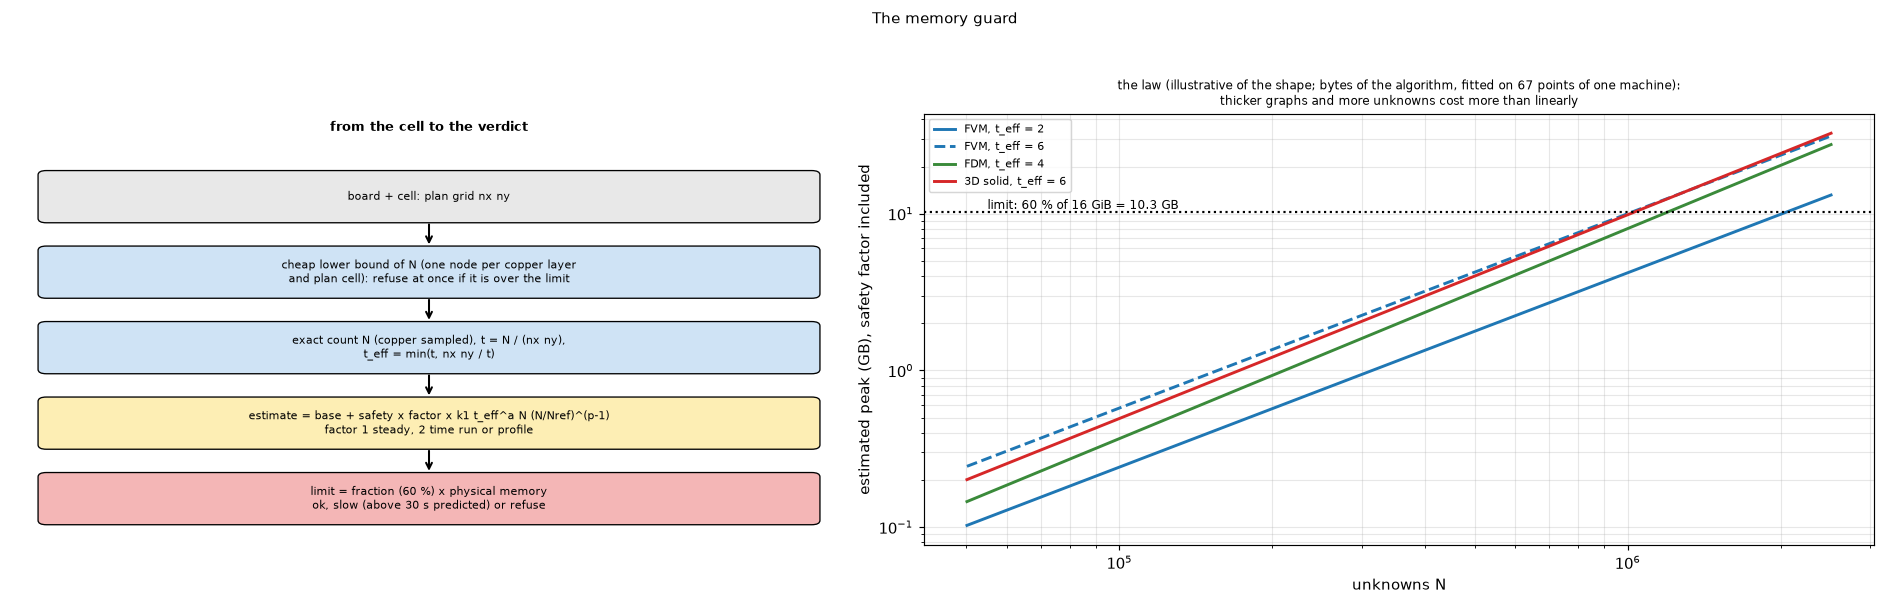
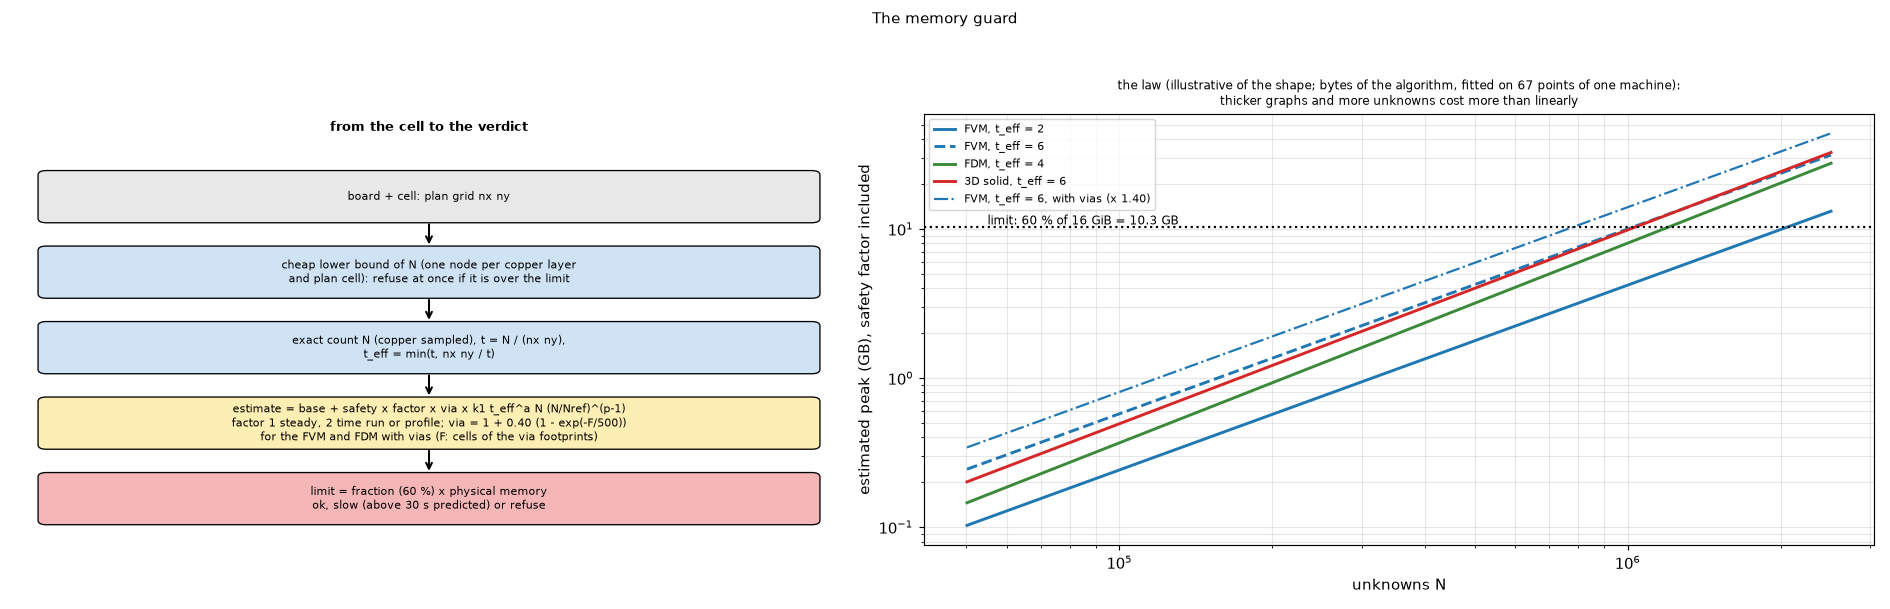
Document the via term of the memory law and the solver proposal
Theory 2.7, models 4c, versions (implemented and Planned), CHANGELOG,
the Decisions Log, the memory-guard README 14.12 with the measured
table, and the law figure with the via curve.

Claude-Session: https://claude.ai/code/session_01XgeLDd5tWg6CEJL9TQpCpU

Changed region(s): [[0.4683, 0.2184, 0.9677, 0.8424], [0.1249, 0.6552, 0.3434, 0.7488], [0.4683, 0.5928, 0.4995, 0.624]]

diff --git a/research/theory/scripts/make_diagrams.py b/research/theory/scripts/make_diagrams.py
@@ -1291,7 +1291,7 @@ def memory_guard(path):
     steps = (("board + cell: plan grid nx ny", "#e8e8e8"),
              ("cheap lower bound of N (one node per copper layer\nand plan cell): refuse at once if it is over the limit", "#cfe3f5"),
              ("exact count N (copper sampled), t = N / (nx ny),\nt_eff = min(t, nx ny / t)", "#cfe3f5"),
-             ("estimate = base + safety x factor x k1 t_eff^a N (N/Nref)^(p-1)\nfactor 1 steady, 2 time run or profile", "#fdeeb4"),
+             ("estimate = base + safety x factor x via x k1 t_eff^a N (N/Nref)^(p-1)\nfactor 1 steady, 2 time run or profile; via = 1 + 0.40 (1 - exp(-F/500))\nfor the FVM and FDM with vias (F: cells of the via footprints)", "#fdeeb4"),
              ("limit = fraction (60 %) x physical memory\nok, slow (above 30 s predicted) or refuse", "#f4b6b6"))
     for i, (txt, col) in enumerate(steps):
         y = 7.5 - i * 1.75
@@ -1305,6 +1305,9 @@ def memory_guard(path):
     for (name, (k1, p, e, s)), t, col, ls in ((("FVM", law["FVM"]), 2, dk.BLUE, "-"), (("FVM", law["FVM"]), 6, dk.BLUE, "--"),
                                               (("FDM", law["FDM"]), 4, "#3a8a3a", "-"), (("3D solid", law["3D solid"]), 6, dk.HEAT, "-")):
         a.plot(n, s * k1 * t ** e * n * (n / 5e5) ** (p - 1.0) / 1e9, color=col, ls=ls, lw=2, label=f"{name}, t_eff = {t}")
+    # The via term of the FVM and FDM saturates at 1 + VIA_GAIN = 1.40 (memory.VIA_GAIN): the board with thousands of via footprint cells
+    k1, p, e, sf = law["FVM"]
+    a.plot(n, 1.40 * sf * k1 * 6 ** e * n * (n / 5e5) ** (p - 1.0) / 1e9, color=dk.BLUE, ls="-.", lw=1.5, label="FVM, t_eff = 6, with vias (x 1.40)")
     lim = 0.6 * 16 * 2 ** 30 / 1e9
     a.axhline(lim, color="k", ls=":", lw=1.5)
     a.text(5.5e4, lim * 1.04, f"limit: 60 % of 16 GiB = {lim:.1f} GB", fontsize=8)

diff --git a/docs/versions.md b/docs/versions.md
@@ -17,7 +17,7 @@ What was implemented in every version (with the module where it lives and how it
 
 * **Imported copper** (`feature/imported-copper`; Auto is capped at 1 mm for imported copper, the coarse-cell warning quotes the measured numbers, `docs/validation.md` 27.3; `pcbthermal/copper.py`; theory `theory.md` 1.7; models `models.md` 19.1; validation `validation.md` 27; evidence `research/gerber-real-boards` 4.1, 10 and the study `scripts/study_program_cells.py`; tests `tests/test_imported_copper.py`). The coverage masks of an import (`Problem.imported`, one byte per pixel and layer, kept as packed text in the import record of project format 2; `model.ImportedCopper` gains `mapping`) become the copper of the board: an imported layer REPLACES the zones of that layer in every model, and the zones drawn there are ignored and warned. Three mappings (`ImportedCopper.mapping`): **faces** (default; `copper.face_conductances`, transmissibility upscaling: one local conduction problem on the pixels between two cell centres per pair of neighbours, FVM and FDM), **lambda** (the geometric mean of the Wiener bounds per cell, much faster, better on 45 degree tracks at about ten pixels per cell) and **fill** (the arithmetic fill, the old path, kept for comparison). **The faces are built on the REDUCED sheet**: the network is built from the cell fill first, so the laminate rule plans its interior laminate nodes on the real copper of each cell and moves a sheet conductance dS out of the copper node of the flagged cells; dS is then taken off every pixel of the cell, copper or bare, before the faces are computed (faces from the unreduced sheet count that laminate twice and are worse than the rule off; a test holds the order). The FVM and FDM take the faces (the FDM windows are centred on the nodes and the edge rows get half faces); the cell fill of the imported layers comes from the masks (box average, `resample_coverage`) for the vertical links, the heat capacity and every other model. The **3D solid** reads the fill (average conductivity) and warns; the **Lumped and Analytic** read only the fill and ALWAYS warn (1 to 16 % too cool in the study, 6 % on average); the FVM and FDM carry one fixed note on the accuracy (and a warning above a 1 mm cell, or below 8 pixels per cell). A cell is almost never a whole number of pixels: the face problems sample the raster at the centres of a grid at least as fine as the raster (`sample_coverage`) instead of averaging it, which keeps the clearances between copper areas (averaging bridged them and read 1.4 to 3.9 % of the rise cool on twelve real windows at cells of 0.92 and 1.09 mm; found by the review, the unaligned-cells defect); `pixels_per_cell` rounds up to an even number, at most `MAX_PIXELS_PER_CELL` = 24 (a finer raster is averaged down). **The import** (`copper.import_copper`, no GUI): rasterises the copper layers one at a time (only the packed text is kept), clears the copper outside a non-rectangular outline, turns plated round holes into vias (slots and unplated holes are said in the warnings) and refuses a panel; the default pixel is `min(m w / 4, cell / 10)` for `m` sub-pixels per pixel and `w` the thinnest feature (a quarter of the thinnest feature, and at most a tenth of the cell, so that the faces have about ten pixels per cell). **Memory** (`memory.py`): `copper_run_bytes` (the unpacked masks held, 1 byte per pixel and layer, and the working set of the face construction, 40 bytes per source pixel of the largest layer plus 50 MB; added to the base of the run), `import_draw_bytes` and `check_import` (refuses BEFORE anything is drawn and names the pixel that fits). **Hostile input** (a project file is hostile): the shape of a mask is checked first (at most 400 million pixels), the text is decoded strictly, the deflated stream is inflated with a cap of the bytes the shape needs plus one (a zip bomb is refused), the extent of the masks must match the board box (a board resized after the import is refused with a message instead of putting the copper in the wrong place), duplicate and out-of-range layer indices are refused. **Saving**: a problem that holds imported copper but no import record (made by `ImportedBoard.to_problem`) used to lose the masks silently on save and reopen as a bare board; it is now written in a record of its own (`Project.run_problem`, `project_to_dict`). `checks.check_input` reads the imported fill and warns on a zone drawn on an imported layer. No interface yet (the import dialog is the next branch, see 'Planned'). **Known limit**: on a 24 mm window the FVM overshoots by +7.9 to +9.6 % at a 2 mm cell (see `validation.md` 27.3 for the cause); the FVM memory law ignores the vias (a separate fix, 'Planned').
 
-* **Memory guard** (`feature/memory-guard`; evidence `research/memory-guard`, reviewed in two rounds; theory `theory.md` 2.7; validation `validation.md` 26). `memory.py`: the physical memory (no dependency; `PCBTHERMAL_MEMORY_BYTES` overrides it), the estimate `base + safety x factor x k1 t_eff^a N (N/N_ref)^(p-1)` per model (FVM, FDM, 3D solid; transient and profile factor 2.0), a cheap lower bound before the exact count, the verdicts ok / slow / refuse against a fraction of the memory (**0.60, a machine preference** `solver.memory_fraction`, not saved in the project; a low *available* memory only warns), the cell that fits and an absolute ceiling of 2 million unknowns for the 3D solid. Replaces `solid3d.MAX_CELLS` and `check_size` (`solid3d.size_limit` keeps its window meaning) and `fvm.MAX_SOR_BLOCK` (the SOR block rule is `75 n^2` bytes summed over the blocks, at most 25 % of the limit). Used by `api.simulate` (a refused 3D solid next to other models is skipped with a warning), `jobs`, the solver panel (verdict next to the unknowns, Run disabled with the reason, Auto cell that fits, the check of an animation in the window), `solid3d.Solid` (its constructor) and the command line (`--memory-fraction`, exit code 3). The animation and the transient keep one LU factor instead of ten (bit-identical frames; peak 1.9 times a steady solve instead of 3.5). The Lumped and the Analytic are not checked. Tests: `tests/test_memory.py`, `test_fvm.py`, `test_gui_stress.py`, `test_help.py`, `test_tooltips.py`.
+* **Memory guard** (`feature/memory-guard`; evidence `research/memory-guard`, reviewed in two rounds; theory `theory.md` 2.7; validation `validation.md` 26). `memory.py`: the physical memory (no dependency; `PCBTHERMAL_MEMORY_BYTES` overrides it), the estimate `base + safety x factor x k1 t_eff^a N (N/N_ref)^(p-1)` per model (FVM, FDM, 3D solid; transient and profile factor 2.0), a cheap lower bound before the exact count, the verdicts ok / slow / refuse against a fraction of the memory (**0.60, a machine preference** `solver.memory_fraction`, not saved in the project; a low *available* memory only warns), the cell that fits and an absolute ceiling of 2 million unknowns for the 3D solid. Replaces `solid3d.MAX_CELLS` and `check_size` (`solid3d.size_limit` keeps its window meaning) and `fvm.MAX_SOR_BLOCK` (the SOR block rule is `75 n^2` bytes summed over the blocks, at most 25 % of the limit). Used by `api.simulate` (a refused 3D solid next to other models is skipped with a warning), `jobs`, the solver panel (verdict next to the unknowns, Run disabled with the reason, Auto cell that fits, the check of an animation in the window), `solid3d.Solid` (its constructor) and the command line (`--memory-fraction`, exit code 3). The animation and the transient keep one LU factor instead of ten (bit-identical frames; peak 1.9 times a steady solve instead of 3.5). The Lumped and the Analytic are not checked. **Via term** (`fix/memory-law-vias`): the FVM and FDM estimate is multiplied by `1 + 0.40 (1 - exp(-F/500))`, F the cells of the via footprints (`memory.via_cells`), after the measured peak of CO60 with its 769 vias (3.96 GB against 2.42 without them, 0.5 mm); boards without vias bit-identical. Tests: `tests/test_memory.py`, `test_fvm.py`, `test_gui_stress.py`, `test_help.py`, `test_tooltips.py`.
 * **Power Calculator reuses one factorisation** (`fix/inverse-factor-reuse`; `inverse.py` inside `fvm.factor_reuse`; speed only, same results; tests `tests/test_inverse_reuse.py` and `tests/test_maximum_principle.py`). At manual h the runs of the calculator solve one matrix with other powers, so 4 solves become 1 factorisation: bit-identical in 84 of 84 cases, about 3.8 times faster, peak memory equal or lower (example board at 0.5 mm: one call 4.80 to 1.28 s, 679 to 605 MB; the band at design level hand 84.5 to 21.6 s, 2024 to 1952 MB). With computed h the matrix changes at every step, nothing is reused and hashing plus the extra `splu` can cost up to about 17 %. The maximum principle with via couplings is now stated and bounded by a test (16 and 64 positive entries of K for the FVM and FDM on the example board at 1 mm, 832 and 864 at 0.5 mm under a 10 x 10 array); the cold spot on a plane with copper under part of a via footprint is recorded as a limit and a strict expected failure (`theory.md` 2.2; Planned).
 * **Lumped zones: the footprint of a part over a dense group of vias in two nodes** (`feature/lumped-zones`; `lumped._zone_network`, `_core_mask`, `_fine_core_share`, `_ZonePeak`, `will_be_zoned`, `cell_for`; `viaconstriction.annulus_out_resistance`, `rim_minus_mean`, `ring_couplings(want_barrel=...)`; `checks.check_lumped_zones`; theory `theory.md` 5.2; validation `validation.md` 18.2; evidence `research/lumped-zones-adoption`, `research/lumped-via-groups`). The cells within `0.7071 d_nn` of the vias of a group in the footprint are the core C, the rest of the footprint is A: two nodes per layer joined by the link of eq. (5.7), the vias at C through the wells of 5.1 (the cluster well kept, capped at 0.75 fin lengths), A to ring 1 by the annulus resistance (5.8), the source split by covered area, capacities as sums of cell capacities, the peak the largest of the field of A, the core plus the rim of the Krogh cell and the core plus the rim plus the bump. The core is painted with the temperature of node C in the map, and the one-node branch has no micro peak (it is the program's code moved, bit for bit). The decision is made on the fine (0.1 mm) count and on the Lumped grid, both at most 92 %, and on the equivalent rectangle for a board with an outline, and passed to the network by `zone_ok` so that the run, the step response and the profile agree. The Lumped raster is **one 0.5 mm cell per board, only when a part will be zoned** (`cell_for`; the other boards keep the 0.5 to 1 mm clip), so the other parts of that board move by the raster too (9 to 18 K on two small parts on bare laminate of a Gerber-like test board, nearer the FVM at 0.5 mm). The profile runner and the step responses use the source split and the zone peak (`_LumpedAdapter.advance`, `step_responses`). Post-run warnings: the bound of the zoned model (up to 16 % of the rise) for an array across the edge, softer texts for off-centre and elongated footprints, a raster coarser than a tenth of the core, and a note when a footprint was kept as one node. Measured: via effect of 36 family boards 10.8 / 31.8 -> 3.8 / 9.1 %, 26 held-out 18.2 / 108.9 -> 4.6 / 20.6 %; hottest temperature 5.1 / 14.2 -> 2.6 / 7.2 % and 5.2 / 17.4 -> 1.6 / 7.6 %; the zones are hotter than the one node on three boards of the profile run and on one of the 62 steady boards, on the safe side. Frozen numbers: the Lumped records of `plate_vias` move (140.3555 -> 136.4534 degC, -3.90 K; time to 63 % 27.83 -> 31.00 s) and are held by the pending shift `tests/regression/data/pending/lumped-zones.json`, written by `tests/regression/make_pending.py` and applied by `test_frozen_numbers.py` over `data/v2.4.5.json`, which is not edited: the refreeze of the release folds the shift in and the pending file is **deleted** at that commit (the test fails on a pending file whose base version is older). Tests: `tests/test_lumped_zones.py`, the stress scenario in `tests/test_gui_stress.py`.
 * **Footprint potentials of the Lumped model in blocks** (`fix/lumped-footprint-potentials`; `lumped._footprint_potentials`; theory `theory.md` 5; evidence `research/lumped-zones-adoption` 4.5 and 8.5). Above 900 footprint cells the stride decimation aliased (the link of the footprint to the first ring was 4 to 22 % short on squares of 20 to 40 mm at a 0.5 mm cell: -4.0, -10.8, -21.6 %); the sources are now summed in `k x k` blocks, the boundary cells and the cells of the nine lowest blocks read at their own positions (within 0.03 % of the all-cell sum on squares, a disc, a rectangle, an L and a ring; the peak term within 0.15 %). Footprints of 900 cells or fewer, the three example boards included, are unchanged to the bit. The board maximum at 0.5 mm moves by +1 to +5 K on a 20 W source of 20 to 60 mm on a single copper sheet, 0 to +1.1 K at 1 mm. Tests: `tests/test_lumped_footprint.py`.
@@ -169,6 +169,10 @@ The next version is 2.5.0 (any feature gives a minor number; only fixes would gi
 * **Auto cell and a 3D solid that would be skipped** (undecided): when the 3D solid is selected next to other models and would be refused, Auto widens the cell for all of them; it could keep the cell of the other models and say that the 3D solid is skipped.
 * **Debounce of the panel verdict** (undecided, 150 ms): the solver panel recounts the unknowns at every edit; the cheap lower bound makes it fast for the refused case, an exact count of a large board is not.
 * **Exact count of the non-zeros of the factor** (symbolic factorisation) to replace the fitted safety factor of the memory law: the test against `splu` is done (`nnz(L)` equals the symbolic count on nine program matrices, `research/theory-sources` 7.2); what is left is the bytes per entry against the measured peaks (`research/theory-sources` 7.6).
+
+### Direct solver without the pivoting search (after `fix/memory-law-vias`)
+
+* **`splu` in symmetric mode** (a `fix/` branch; changes the solver call, temperatures equal to 3e-15 relative, so the frozen numbers hold): the thermal matrices are symmetric positive definite (also with the via couplings, which are a Schur complement), and `splu(A, permc_spec="MMD_AT_PLUS_A", diag_pivot_thresh=0.0, options={"SymmetricMode": True})` took a 360 000-unknown board with a regular via array from 224 s and 7.8 GB to 3.7 s and 1.5 GB, CO60 striped at 0.5 mm from 29 s and 3.95 GB to 7.9 s and 2.39 GB, a 180 000-unknown plate from 18 s and 2.6 GB to 0.7 s and 0.58 GB (copies of the call, `research/memory-guard` README 14.12). With it the via term of the memory law (`memory.VIA_GAIN`) would be removed or lowered; needs the whole battery and a check of `fvm.direct_solve`, the factor reuse, the transient and the FDM.
 
 ### Fixes waiting for a study
 

diff --git a/docs/theory.md b/docs/theory.md
@@ -390,11 +390,17 @@ A sparse direct factorisation needs memory that grows faster than the number of 
 
 with `N` the unknowns, `N_ref = 500 000`, `t` the nodes per plan cell (the thickness of the graph that is factored) and `t_eff` its smaller side, because a board that is very thick in layers is also thin in plan (the smallest separator of the graph is then a horizontal plane, the nested-dissection argument of [George1973] (R in part), supported by two measured points only). The coefficients (`memory.CONTINUOUS`, bytes at `N_ref` and `t_eff` = 1) are, with the exponents of `N` and of `t_eff` and the safety factor: FVM `k₁` = 1469, `p` = 1.24, `a` = 0.79, safety 1.40; FDM 1228, 1.34, 1.03, 1.24; 3D solid 1063, 1.30, 0.98, 1.30. The safety factor is the largest measured/fitted ratio of the ladder rounded up, so the estimate does not fall below the measurement on the points that were measured. `base` is the resident size of the process when the check is made (not multiplied: it is measured); `factor` is 1 for a steady solve and 2.0 for a time simulation, an animation or a profile run (`memory.TRANSIENT_FACTOR`, `PROFILE_FACTOR`: the transient keeps one factor of the matrix plus the previous stage while the next is built, measured 1.9 after the program was changed to keep one LU factor instead of ten; the profile factor is not measured). The Lumped and the Analytic models are not estimated here (455 bytes per unknown for the Lumped; the Analytic has its own 4 800-unknown guard, section 6.1).
 
+**The vias.** The mean-potential couplings of the vias (section 2.6, `viawell.py`) join the copper layers across the laminate node layers, and the factorisation of a board with vias took up to 1.6 times the memory of the same board without them (CO60, 769 plated holes as vias, copper in stripes, 0.5 mm, 545 305 unknowns: 3.96 GB against 2.42 GB; the full-copper board 0.76 against 0.61 GB; the FDM the same, 1.38 against 1.20 GB at 0.7 mm). For the FVM and FDM the allocated part of (2.8) is therefore multiplied by
+
+    via = 1 + 0.40 · (1 − exp(−F / 500))                                                                                                (2.8b)
+
+with `F` the cells of the via footprints (`memory.via_cells`: the sum over the vias of the mean number of cells of `viawell.footprint` of their drill at the cell, over six positions of the centre, cached by drill and cell; vias with the centre outside the board box are left out). The term is 1 without vias (a board without vias, the 3D solid and the cheap lower bound are unchanged), continuous, and saturates at `1 + VIA_GAIN` = 1.40 (`memory.VIA_GAIN`, `VIA_CELLS_REF`); 25 vias of 0.3 mm at 0.5 mm are 80 to 100 cells and cost 7 %, the 769 holes of CO60 are 2 500 to 5 400 cells and cost 39 %. Against the measured peaks of the CO60 study (nine points, FVM and FDM, 0.5 to 1 mm) the estimate is at or above the measurement, 1.01 to 2.0 times it (without the term, four of them were below it); the reviewer's measurement of the imported board (5.5 GB at 541 500 unknowns against 4.1 GB without the term) is covered (about 5.7 GB). The imported-copper run itself was not reproduced here: the same board with full or striped copper and no face construction peaks at 3.96 GB. **Limit, measured and not cured here**: a *regular* array of vias whose pitch is commensurate with the cell (a 150 mm plate, 100 to 1 600 vias of 0.3 mm in a square of 12 to 90 mm, 0.5 mm cell) sometimes takes much more than any function of the via count predicts: in 8 of 44 such runs the peak is 1.2 to 3.2 times the estimate with the term (14 of 44 above the law without it, up to 4.2 times; 6.4 GB and 235 s against 1.5 GB and 4 s on a 360 000-unknown board), with no relation to the number of vias, the footprint cells or their squares; none at 1 and 0.7 mm and none in the scattered layout of CO60. The size of the factor `L + U` does not change (93.4 million entries against 94.9 million, `splu`); the excess is the work and the workspace of SuperLU's row-pivoting search, and it disappears when the factorisation is told the matrix is symmetric (`splu(A, permc_spec="MMD_AT_PLUS_A", diag_pivot_thresh=0.0, options={"SymmetricMode": True})`: the same board 4.3 s and 2.6 GB against 17.7 s and 4.3 GB, the worst one 3.7 s and 1.5 GB against 224 s and 7.8 GB, CO60 striped 0.5 mm 2.39 against 3.95 GB, temperatures equal to 3e-15 relative). That change of the solver is measured on a copy and proposed in the chapter 'Planned' of `versions.md`; with it the via term would be unnecessary.
+
 **Cheap lower bound first.** The exact unknown count of the layered models samples the copper of every plan cell (about 300 bytes per plan cell, tens of GB for a 0.5 m board at 0.05 mm), so the guard first takes a lower bound (one node per copper layer and plan cell; the 3D count is already exact and cheap). The estimate grows with `N` at fixed plan cells, so a bound above the limit refuses the run without the exact count, and the message says "at least". Only a bound that fits is counted exactly.
 
 **Verdicts.** The limit is a fraction of the physical memory (read without a dependency: `sysconf`, `sysctl hw.memsize`, `/proc/meminfo`, `GlobalMemoryStatusEx`; the cgroup limit of a container lowers it; the variable `PCBTHERMAL_MEMORY_BYTES` replaces the reading). The default fraction is 0.60 (10 to 95 % allowed), a **machine preference** (`solver.memory_fraction` in Preferences, command line `--memory-fraction`), not a property of a project: it is not saved in the project file and an old file's value is ignored. The verdict is *refuse* above the limit, *slow* when the predicted solve time is above 30 s (a time law per class, measured on a shared machine, so a lower bound), otherwise *ok*. The 3D solid is also refused above an absolute ceiling of 2 million unknowns (it binds only from about 26 GB of memory). A refusal names the cell that fits (grown in steps of 10 %, rounded up to 0.1 mm, up to 50 mm). When the estimate is above the memory **available** now (`vm_stat`, `MemAvailable`, `ullAvailPhys`) the result is a warning, not a refusal: the same project would otherwise run or not depending on the moment. `solid3d.size_limit(n)` (offline studies) is a window: a model is accepted up to `n` unknowns whatever the estimate and refused above it.
 
-**Limits.** The coefficients were fitted on 67 points (layer-major numbering) of one 16 GB machine; the extrapolation beyond the largest measured points (240 000 to 400 000 unknowns for the 3D solid) is trusted to about ±20 %; Windows and containers were not measured; the memory compressor of macOS can make a resident peak read 20 % low on a loaded machine. The program logs the estimate and the measured peak after each run, so another machine can check the law. The exact symbolic count of the non-zeros of the factor equals the count of `splu` on nine program matrices (`research/theory-sources` 7.2); what is left, an item of the chapter "Planned" of `versions.md`, is to test the bytes per entry against the measured peaks, which would replace the fitted safety factor.
+**Limits.** The coefficients were fitted on 67 points (layer-major numbering) of one 16 GB machine, the via term (2.8b) on 59 more (CO60 and plates with via arrays, FVM and FDM, `research/memory-guard` README 14.12); the extrapolation beyond the largest measured points (240 000 to 400 000 unknowns for the 3D solid) is trusted to about ±20 %; Windows and containers were not measured; the memory compressor of macOS can make a resident peak read 20 % low on a loaded machine. The program logs the estimate and the measured peak after each run, so another machine can check the law. The exact symbolic count of the non-zeros of the factor equals the count of `splu` on nine program matrices (`research/theory-sources` 7.2); what is left, an item of the chapter "Planned" of `versions.md`, is to test the bytes per entry against the measured peaks, which would replace the fitted safety factor.
 **Where it is checked**: `validation.md` 26 (the memory ladder and the accuracy of the law); `research/memory-guard` (README 5, 9, 10, 14); `tests/test_memory.py`. **Sources**: [George1973] (R in part: abstract, Theorems 4.1 and 5.2, the remark on the cube; the constants of A.6 are unreadable in the scan), [LiGolub2013] (R, slides 19 and 20), [SuperLUGuide] (R in part, sections 1.4.4 and 2.8), [GilbertNgPeyton1994] (R, abstract and introduction), [Davis2006] (M). [LiSuperLU2005] is not cited: a copy is held but its text layer is unreadable (N for the reading). They give the form of the law; the coefficients are fitted on the measurements. With the program's symmetric ordering `splu` takes no row pivot, and `nnz(L)` equals the symbolic count on nine program matrices (`research/theory-sources` 7.2); the bytes per entry against the measured peaks are still to be tested.
 
 ## 3. FDM: node-centred finite differences (the comparison)

diff --git a/research/memory-guard/README.md b/research/memory-guard/README.md
@@ -387,6 +387,27 @@ Removing the point that ran while the machine swapped and repeating it with a lo
 
 The seven figures are legible and quote only numbers of this README. Two will be out of date when the design is decided: figure 01 says "limit = fraction x RAM (70 %)" and "per class", figure 04 draws the class laws and "70 % of 16 GB" at 11.2 GB (the program's 70 % is 12.0 GB); redraw them with the adopted law and limit. The literature statuses are honest: none of [George1973], [Davis2006], [GeorgeLiu1981], [LiSuperLU2005] was opened, and the README says the explanations of the exponents are hypotheses; the t_eff argument of R1 rests on [George1973] as well (M). [PythonResource] is now read for macOS (the man page); Linux not read.
 
+### 14.12 The vias in the memory law (`fix/memory-law-vias`)
+
+**Question**: the law of `memory.CONTINUOUS` was fitted on boards without vias; the reviewer of `feature/imported-copper` measured 5.5 GB at 541 500 unknowns on CO60 (769 holes) against 4.1 GB estimated (ratio 1.34). **Method**: `scripts/study_via_law.py` (one child process per case, kernel peak, `lib/cases.py` families `viagrid` and `co60`; the boards of `research/gerber-real-boards/data` through `PCBT_REAL_BOARDS`, never copied), FVM and FDM, peak resident memory of a fresh process, one run at a time.
+
+| board (FVM) | cell (mm) | unknowns | peak without vias (GB) | peak with vias (GB) | measured / estimate before | after |
+| :-- | --: | --: | --: | --: | --: | --: |
+| CO60, copper full | 0.5 | 218 122 | 0.61 | 0.76 | 1.02 | 0.76 |
+| CO60, copper full | 0.7 | 110 976 | 0.34 | 0.39 | 1.03 | 0.80 |
+| CO60, copper in stripes | 1.0 | 135 375 | 0.54 | 0.60 | 0.72 | 0.53 |
+| CO60, copper in stripes | 0.7 | 277 440 | 1.18 | 1.48 | 0.79 | 0.57 |
+| CO60, copper in stripes | 0.5 | 545 305 | 2.42 | 3.96 | 0.94 | 0.68 |
+| plate 150 mm, 4 layers, 400 vias in 30 mm | 0.5 | 360 000 | 1.51 | 2.60 | 1.21 | 0.89 |
+| plate 150 mm, 4 layers, 100 vias in 45 mm | 0.5 | 360 000 | 1.51 | 3.40 | 1.58 | 1.34 |
+| plate 150 mm, 4 layers, 400 vias in 90 mm | 0.5 | 360 000 | 1.51 | 6.38 | 2.96 | 2.19 |
+
+The FDM rows (CO60 full copper 0.5 and 0.7 mm, striped 0.7 and 1.0 mm) behave like the FVM: 1.24, 1.25, 0.70 and 0.71 of the estimate before, 0.93, 0.99, 0.51 and 0.52 after. The CO60 striped FDM at 0.5 mm and the whole of the transient and 3D solid were not run (free memory below the 12 GB the heavy run asked for at the time).
+
+**Result 1, the term**: a board with vias needs up to 1.64 times the memory of the same board without them (CO60 striped, 0.5 mm) and the gain grows with the finer cell and the thicker graph; one via costs nothing. The factor `1 + 0.40 (1 - exp(-F/500))` (`F` the footprint cells) puts the estimate at or above every measured point of the scattered layouts (CO60 and the arrays of 25 to 100 vias) with 1.0 to 2.0 times; it multiplies the allocated part, not the base, leaves the lower bound a lower bound, and is 1 without vias (bit-identical estimates, test). **Result 2, the limit**: on 44 regular arrays at 0.5 mm (a 150 mm plate, 2 and 4 layers, 100 to 1 600 vias of 0.3 mm in squares of 12 to 90 mm) 14 are above the law without the term and 8 above it with it (largest 3.2 times: 2 layers, 1 600 vias in 60 mm, 2.56 GB and 17.6 s against 0.56 GB and 0.7 s without vias; 4 layers, 400 vias in 90 mm, 6.38 GB and 235 s). The number of vias, the cells of the footprints and their squares do not predict it (a 400-via array in 12 mm costs nothing, one in 30 mm 1.1 GB more); none at 1 and 0.7 mm and none in CO60. **Result 3, the cause and the cure** (measured on copies of the call, not in the program): `nnz(L + U)` is the same (93.4 against 94.9 million on the 4-layer plate), the time and the workspace are not; `splu` with `diag_pivot_thresh=0.0` and `SymmetricMode` gives 4.3 s and 2.6 GB against 17.7 s and 4.3 GB there, 3.7 s and 1.5 GB against 224 s and 7.8 GB on the worst plate, 7.9 s and 2.39 GB against 29 s and 3.95 GB on CO60 striped at 0.5 mm, temperatures equal to 3e-15 relative; the factorisation row permutation equals the column one in both runs, so the search, not the pivots, is the cost (not studied further). Proposal in `docs/versions.md` 'Planned'.
+
+**Not verified**: the reviewer's 5.5 GB (imported copper with the face construction) was not reproduced, the 3.96 GB here is the solve of the same plan with plain zones; the footprint count is a mean over six positions of the centre, not the footprints of the real positions; the transient factor with vias, the 3D solid and the SOR were not measured; one machine (16 GB, macOS), the load average was 3 to 4 during the runs.
+
 ## 15. What was read and what was not verified
 
 * **Read in full:** the code of `pcbthermal/fvm.py` (`Network`, `solve_steady`, `solve_sor`, `_sor_block_groups`, `unknowns`, `MAX_SOR_BLOCK`), `viawell.unknown_blocks`, `laminate.uses_rule`, and the code of this folder. `fdm.py`, `solid3d.py`, `analytic.py`, `api.py` and `gui/panels.py` were read in the preparation of the folder and not re-read in this run.

diff --git a/CHANGELOG.md b/CHANGELOG.md
@@ -13,6 +13,9 @@ MAJOR for incompatible changes, MINOR for new features, PATCH for fixes. Release
 - The first layout of the side docks is robust: minimum widths are enforced after the window is shown (and again 250 ms later), saved dock sizes that are collapsed or too wide are replaced by the default, and a window state saved by an older version is refused (state version 2).
 - The notes of the Run panel list and the Results summary draw the symbol and the text with the same theme token (`alert`, `alert_note`); the colours are unchanged except that the symbol now follows the text. **Softer palette chosen by the maintainer**: accent family `#5a7fb0` (hover `#6a8fbf`, pressed `#4a6a96`) in the light theme and `#6a90c0` (hover `#7a9fcc`, pressed `#5a7eab`) in the dark theme, replacing `#2563eb` and `#4c8dff`; notes and warnings are amber, `#8a5a00` (light) and `#e0a030` (dark), for the Run panel list and the Results notes, symbol and text alike. The greys, the links and the status colours are unchanged. The accent of the browser copies of the help pages follows (`#5a7fb0`).
 
+### Fixed (memory law, `fix/memory-law-vias`)
+- The memory guard now counts the vias in the FVM and FDM estimate: the allocated part is multiplied by `1 + 0.40 (1 - exp(-F/500))`, F the cells of the footprints of the vias (`memory.via_cells`). CO60 with its 769 vias at 0.5 mm took 3.96 GB against 2.42 GB without them, and the reviewer's imported board 5.5 GB against 4.1 GB estimated. Boards without vias, the 3D solid and the cheap lower bound are unchanged. A regular via array on the grid can still exceed the estimate (measured, proposed fix in `docs/versions.md` 'Planned'); no temperature changes.
+
 ### Added
 - **Imported copper at a coarse cell** (`feature/imported-copper`, reopened after the review): the warning above a 1 mm cell now quotes the measured numbers (up to 4.3 % too hot at 1 mm, 7 to 10 % at 2 mm on 24 mm windows of real two-layer boards, between the program's own grid error with drawn full copper, +2.2 % at 2 mm, and on bare laminate, +11.8 %; the "about half" of the earlier text is withdrawn), calls the result a screening estimate above 1.5 mm, and Auto (`suggest_cell_mm`) no longer proposes more than 1 mm for imported copper unless the memory limit forces it (`copper.auto_cell_note` says so).
 - **Low face Rayleigh number warning** (`fix/natural-convection-low-ra`; `checks.check_low_rayleigh`, `research/plate-h-level`): after the run, once per run (from the reference model, not once per model), a vertical board in computed mode whose face Rayleigh number is below 1e3 (a face about 10 mm high at a 10 K excess) is told that the natural-convection coefficient is not checked there; a face where forced air is at least the natural convection is not counted. The channel part is covered by the fin warning (`Ra_b < 90`).

diff --git a/CLAUDE.md b/CLAUDE.md
@@ -338,6 +338,8 @@ The goal is release 2.5.0 from `develop` only. State and next steps live in `doc
 
 ## Decisions Log
 
+- **Vias in the memory law** (`fix/memory-law-vias`, measured by the executor, not yet reviewed): the FVM and FDM estimate is multiplied by `1 + 0.40 (1 - exp(-F/500))` (`memory.via_gain`, `via_cells`; F the cells of the via footprints), after CO60 with 769 holes at 0.5 mm took 3.96 GB against 2.42 GB without vias (FVM; FDM the same); one via costs nothing, no vias, the 3D solid and the lower bound are unchanged. Not covered: regular via arrays on the grid (8 of 44 runs above the estimate, up to 3.2 times, 6.4 GB and 235 s at 360 000 unknowns), whose cause is SuperLU's pivot search (the factor has the same size); `splu` in symmetric mode (`diag_pivot_thresh=0`, `SymmetricMode`) removed it on every case measured on a copy (temperatures equal to 3e-15), proposed in `docs/versions.md` 'Planned' as its own `fix/` branch with the whole battery. Evidence `research/memory-guard` README 14.12, `scripts/study_via_law.py`.
+
 - **Delete also on Backspace, docks named as settings** (maintainer, on the integration of the five branches): the Delete action has two keys, Del and Backspace (the menu shows it; the canvas has no key branch left); the docks are titled "Board settings" and "Simulation settings" in the title bars and the View menu, while their object names stay `Board` and `Simulation` so that saved window layouts restore (`tests/test_shortcuts.py`).
 
 - **OCR tool in the repository** (`feature/ocr-tool`; maintainer): `tools/ocr/` replaces the loose scripts of `papers/scripts/`: provider interface (Gemini first, a local stub, room for another), online OCR through Gemini for everything except confidential files, key in the environment or `.ocr_keys` (mode 600, never printed, redacted on every error path, scanned for in the tracked files), ledger of requests, queue, suspect-page detector with printed and PDF page numbers, verify page, and a decoder for the base-36 font cipher (each letter is two base-36 digits minus 360; confirmed on `Muzychka2003Part1`: 2942 tokens on 8 of 9 pages, page-aware (decoding every token turned AC/DC into fi/x), `ADD9DC` is `flux`; the capital letters that the local conversion dropped are not recoverable, so those pages need a Gemini transcription). `tools/` is covered by the Doxygen and licence-header gates. The program does not import it.

diff --git a/docs/models.md b/docs/models.md
@@ -183,6 +183,7 @@ The memory of a sparse direct solve grows faster than the number of unknowns, an
 * **Limit**: a fraction of the physical memory, default **60 %** (10 to 95 %), the Preferences field *Memory limit* (section `solver`). It belongs to the machine, so it is **not saved in the project**. The physical memory is read without a dependency; the variable `PCBTHERMAL_MEMORY_BYTES` states it when the machine's limit is not visible (a container, a test).
 * **Verdict** per model: *ok*, *slow* (predicted solve above 30 s) or *refuse* (estimate above the limit, or the 3D solid above 2 million unknowns). A refusal names the cell that fits. A time simulation, an animation and a profile run count twice the steady estimate. An estimate above the memory *available* now only warns.
 * **Where it acts**: `api.simulate` (a refused 3D solid next to other models is skipped with a warning, the others run), the calculation process, the solver panel (the unknowns and the verdict under the cell size; **Run is disabled** with the reason when a model is refused; **Auto** chooses a cell that fits), `solid3d.Solid` (its own constructor) and the command line (the same text, **exit code 3**; `--memory-fraction F` for the command). The block SOR is allowed only when the sum of `75 n^2` bytes over its dense blocks is at most 25 % of the limit.
+* **Vias**: for the FVM and FDM the estimate of a board with vias is multiplied by `1 + 0.40 (1 - exp(-F/500))`, F the cells of the via footprints (`memory.via_cells`), because the via couplings raised the measured peak up to 1.6 times (CO60 at 0.5 mm); no vias, no change. A regular array of vias on the grid can still take more (see `theory.md` 2.7).
 * The log gives the estimate and the measured peak of each run, so that the law can be checked on other machines.
 
 ## 5. Heat transfer coefficients: typed or computed (theory §8)
